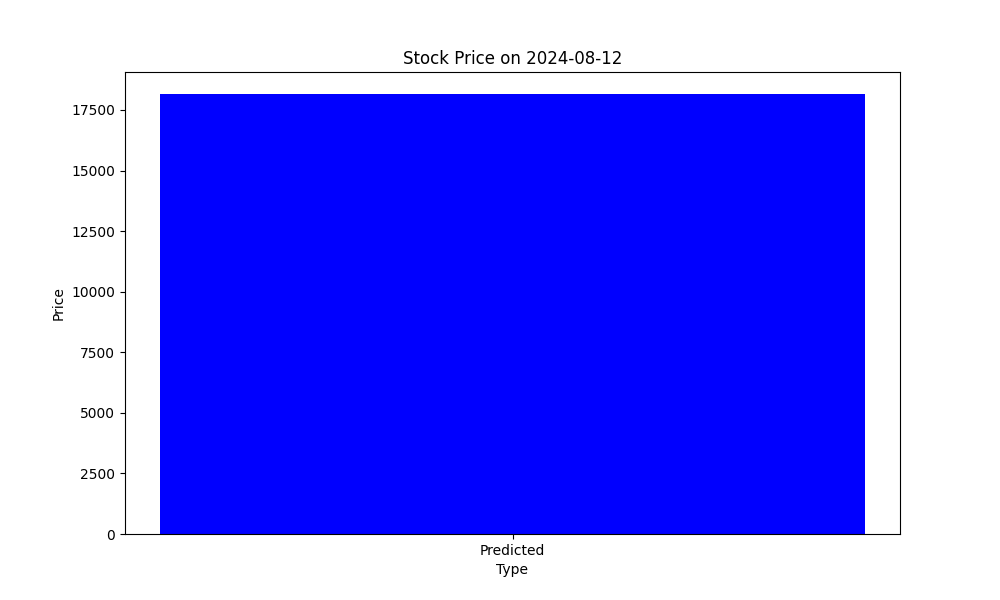
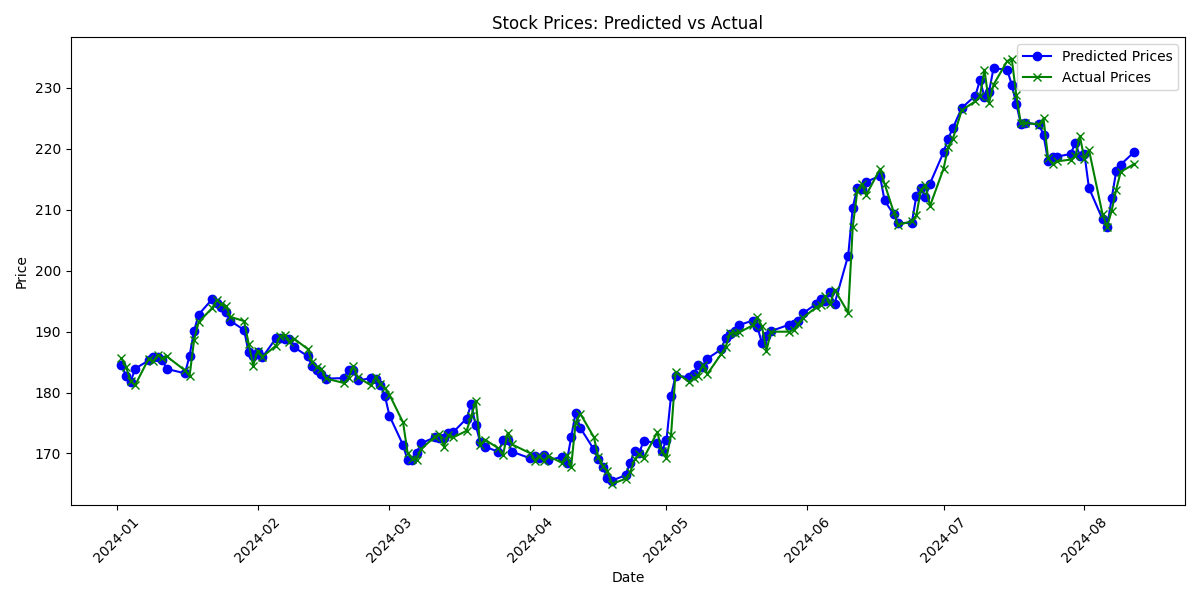
Update 1

diff --git a/templates/index.html b/templates/index.html
@@ -4,41 +4,36 @@
     <meta charset="UTF-8">
     <meta name="viewport" content="width=device-width, initial-scale=1.0">
     <title>Stock Price Prediction</title>
-    <link rel="stylesheet" href="{{ url_for('static', filename='css/styles.css') }}">
 </head>
 <body>
-    <div class="container">
-        <h1>Stock Price Prediction</h1>
-        <form method="POST">
-            <label for="symbol">Stock Symbol:</label>
-            <input type="text" id="symbol" name="symbol" required>
+    <h1>Stock Price Prediction</h1>
+    <form method="POST">
+        <label for="symbol">Stock Symbol:</label>
+        <input type="text" id="symbol" name="symbol" required>
+        <br><br>
+        <label for="future_date">Enter Future Date (YYYY-MM-DD):</label>
+        <input type="date" id="future_date" name="future_date">
+        <br><br>
+        <input type="submit" value="Predict">
+    </form>
 
-            <label for="currency">Currency (USD or INR):</label>
-            <input type="text" id="currency" name="currency" required>
+    {% if error_message %}
+        <p style="color: red;">{{ error_message }}</p>
+    {% endif %}
 
-            <label for="future_date">Future Date (YYYY-MM-DD):</label>
-            <input type="date" id="future_date" name="future_date" required>
+    {% if future_prediction %}
+        <h2>Future Prediction</h2>
+        <p>Predicted price for {{ request.form['future_date'] }}: {{ future_prediction }}</p>
+    {% endif %}
 
-            <button type="submit">Predict</button>
-        </form>
+    {% if accuracy_score %}
+        <h2>Model Accuracy</h2>
+        <p>R² Score: {{ accuracy_score }}</p>
+    {% endif %}
 
-        {% if predicted_price %}
-        <div class="result">
-            <h2>Predicted Stock Price on {{ future_date }}: {{ predicted_price }} {{ currency }}</h2>
-            {% if actual_price %}
-                <h3>Actual Stock Price: {{ actual_price }} {{ currency }}</h3>
-            {% else %}
-                <h3>No actual price data available.</h3>
-            {% endif %}
-            <img src="{{ plot_url }}" alt="Stock Price Plot">
-        </div>
-        {% endif %}
-
-        {% if error_message %}
-        <div class="error">
-            <p>{{ error_message }}</p>
-        </div>
-        {% endif %}
-    </div>
+    {% if plot_url %}
+        <h2>Predicted vs Actual Prices</h2>
+        <img src="{{ plot_url }}" alt="Predicted vs Actual Prices">
+    {% endif %}
 </body>
 </html>

diff --git a/app.py b/app.py
@@ -1,19 +1,18 @@
-from flask import Flask, render_template, request, send_file
+from flask import Flask, render_template, request
 import pandas as pd
 import numpy as np
-from datetime import datetime
-from sklearn.tree import DecisionTreeRegressor
+from datetime import datetime, timedelta
+from sklearn.ensemble import RandomForestRegressor
 from sklearn.preprocessing import StandardScaler
 import requests
 import matplotlib.pyplot as plt
 import os
+from sklearn.metrics import r2_score
 
 app = Flask(__name__)
 
 API_KEY = 'FVOEWU64HKN1C9U2'
-EXCHANGE_RATE_API_KEY = '699cc6dc962264a2fc44c056'
 STOCK_BASE_URL = 'https://www.alphavantage.co/query'
-EXCHANGE_RATE_BASE_URL = 'https://v6.exchangerate-api.com/v6'
 
 
 def calculate_rsi(df, period=14):
@@ -44,31 +43,32 @@ def add_technical_indicators(df):
     return df
 
 
-def train_decision_tree(df, currency='USD'):
+def train_random_forest(df):
     df = add_technical_indicators(df)
 
+    # Features and target variable
     X = df[['Close', 'MA_5', 'MA_10', 'MA_50', 'Volatility', 'RSI', 'MACD', 'MACD_signal']]
-    y = df['Close']
+    y = df['Close'].shift(-1)  # Predict the next day's closing price
 
-    if currency == 'INR':
-        X = df[['Close_INR', 'MA_5', 'MA_10', 'MA_50', 'Volatility', 'RSI', 'MACD', 'MACD_signal']]
-        y = df['Close_INR']
+    # Remove the last row with NaN target
+    X = X[:-1]
+    y = y[:-1]
 
     scaler = StandardScaler()
     X = scaler.fit_transform(X)
 
-    model = DecisionTreeRegressor(random_state=42)
+    model = RandomForestRegressor(n_estimators=100, random_state=42)
     model.fit(X, y)
 
     return model, scaler
 
 
-def fetch_future_price_from_api(symbol, future_date, api_key):
+def fetch_stock_data(symbol):
     params = {
         'function': 'TIME_SERIES_DAILY',
         'symbol': symbol,
         'outputsize': 'full',
-        'apikey': api_key
+        'apikey': API_KEY
     }
 
     response = requests.get(STOCK_BASE_URL, params=params)
@@ -76,28 +76,31 @@ def fetch_future_price_from_api(symbol, future_date, api_key):
 
     if 'Time Series (Daily)' in data:
         time_series = data['Time Series (Daily)']
-        future_date_str = future_date.strftime('%Y-%m-%d')
-        if future_date_str in time_series:
-            actual_price = time_series[future_date_str]['4. close']
-            return float(actual_price)
+        df = pd.DataFrame.from_dict(time_series, orient='index')
+        df.index = pd.to_datetime(df.index)
+        df = df.sort_index()
+        df.columns = ['Open', 'High', 'Low', 'Close', 'Volume']
+
+        df['Open'] = df['Open'].astype(float)
+        df['High'] = df['High'].astype(float)
+        df['Low'] = df['Low'].astype(float)
+        df['Close'] = df['Close'].astype(float)
+
+        return df
 
     return None
 
 
-def plot_prices(future_date, predicted_price, actual_price=None):
-    dates = [future_date]
-    prices = [predicted_price]
-    labels = ['Predicted']
-
-    if actual_price is not None:
-        prices.append(actual_price)
-        labels.append('Actual')
-
-    plt.figure(figsize=(10, 6))
-    plt.bar(labels, prices, color=['blue', 'green'])
-    plt.title(f'Stock Price on {future_date}')
+def plot_prices(dates, predicted_prices, actual_prices):
+    plt.figure(figsize=(12, 6))
+    plt.plot(dates, predicted_prices, label='Predicted Prices', color='blue', marker='o')
+    plt.plot(dates, actual_prices, label='Actual Prices', color='green', marker='x')
+    plt.title('Stock Prices: Predicted vs Actual')
+    plt.xlabel('Date')
     plt.ylabel('Price')
-    plt.xlabel('Type')
+    plt.xticks(rotation=45)
+    plt.legend()
+    plt.tight_layout()
 
     plot_filename = 'static/plot.png'
     if os.path.exists(plot_filename):
@@ -110,74 +113,70 @@ def plot_prices(future_date, predicted_price, actual_price=None):
 
 @app.route('/', methods=['GET', 'POST'])
 def index():
+    predicted_prices = []
+    actual_prices = []
+    error_message = None
+    future_dates = []
+    future_prediction = None
+    accuracy_score = None
+
     if request.method == 'POST':
         symbol = request.form['symbol'].upper()
-        currency = request.form['currency'].upper()
-        future_date_str = request.form['future_date']
-        future_date = datetime.strptime(future_date_str, '%Y-%m-%d')
+        future_date_str = request.form.get('future_date', '')
 
-        # Step 1: Fetch the exchange rate (USD to INR)
-        exchange_rate_response = requests.get(f"{EXCHANGE_RATE_BASE_URL}/{EXCHANGE_RATE_API_KEY}/latest/USD")
-        exchange_rate_data = exchange_rate_response.json()
-        usd_to_inr = exchange_rate_data['conversion_rates']['INR']
+        # Fetch the stock data from Alpha Vantage
+        df = fetch_stock_data(symbol)
 
-        # Step 2: Fetch the stock data from Alpha Vantage
-        params = {
-            'function': 'TIME_SERIES_DAILY',
-            'symbol': symbol,
-            'outputsize': 'full',
-            'apikey': API_KEY
-        }
+        if df is not None:
+            # Train the model
+            model, scaler = train_random_forest(df)
 
-        response = requests.get(STOCK_BASE_URL, params=params)
-        data = response.json()
+            if future_date_str:
+                future_date = pd.to_datetime(future_date_str)
+                last_date = df.index[-1]
 
-        if 'Time Series (Daily)' in data:
-            time_series = data['Time Series (Daily)']
-            df = pd.DataFrame.from_dict(time_series, orient='index')
-            df.index = pd.to_datetime(df.index)
-            df = df.sort_index()
-            df.columns = ['Open', 'High', 'Low', 'Close', 'Volume']
+                if future_date > last_date:
+                    # Prepare data for future date prediction
+                    last_row = df.iloc[-1][['Close', 'MA_5', 'MA_10', 'MA_50', 'Volatility', 'RSI', 'MACD', 'MACD_signal']]
+                    last_row_df = pd.DataFrame([last_row])
+                    last_row_scaled = scaler.transform(last_row_df)
 
-            df['Open'] = df['Open'].astype(float)
-            df['High'] = df['High'].astype(float)
-            df['Low'] = df['Low'].astype(float)
-            df['Close'] = df['Close'].astype(float)
+                    # Predict the price for the future date
+                    future_prediction = model.predict(last_row_scaled)[0]
 
-            df['Open_INR'] = df['Open'] * usd_to_inr
-            df['High_INR'] = df['High'] * usd_to_inr
-            df['Low_INR'] = df['Low'] * usd_to_inr
-            df['Close_INR'] = df['Close'] * usd_to_inr
+            # Generate dates from January 1st to today
+            start_date = datetime(2024, 1, 1)
+            end_date = datetime.now()
+            date_range = pd.date_range(start=start_date, end=end_date)
 
-            # Step 3: Train the model
-            model, scaler = train_decision_tree(df, currency=currency)
+            # Prepare data for predictions
+            for date in date_range:
+                if date in df.index:
+                    last_row = df.loc[date][['Close', 'MA_5', 'MA_10', 'MA_50', 'Volatility', 'RSI', 'MACD', 'MACD_signal']]
+                    last_row_df = pd.DataFrame([last_row])
+                    last_row_scaled = scaler.transform(last_row_df)
 
-            # Step 4: Predict the stock price for the future date
-            last_row = df.iloc[-1][
-                ['Close', 'MA_5', 'MA_10', 'MA_50', 'Volatility', 'RSI', 'MACD',
-                 'MACD_signal']] if currency == 'USD' else \
-                df.iloc[-1][['Close_INR', 'MA_5', 'MA_10', 'MA_50', 'Volatility', 'RSI', 'MACD', 'MACD_signal']]
+                    # Predict the next day's price
+                    predicted_price = model.predict(last_row_scaled)[0]
+                    predicted_prices.append(predicted_price)
+                    actual_prices.append(df.loc[date]['Close'])
+                    future_dates.append(date)
 
-            last_row_df = pd.DataFrame([last_row])
-            last_row_scaled = scaler.transform(last_row_df)
-            predicted_price = model.predict(last_row_scaled)[0]
+            # Calculate accuracy score
+            accuracy_score = r2_score(actual_prices, predicted_prices)*100
 
-            # Step 5: Fetch the actual price from the API for the future date
-            actual_price = fetch_future_price_from_api(symbol, future_date, API_KEY)
+            # Plot the prices
+            plot_filename = plot_prices(future_dates, predicted_prices, actual_prices)
 
-            # Step 6: Plot the prices
-            plot_filename = plot_prices(future_date_str, predicted_price, actual_price)
-
-            return render_template('index.html', predicted_price=predicted_price, future_date=future_date_str,
-                                   currency=currency, actual_price=actual_price, plot_url=plot_filename)
+            return render_template('index.html', predicted_prices=predicted_prices, actual_prices=actual_prices,
+                                   future_dates=future_dates, plot_url=plot_filename, future_prediction=future_prediction,
+                                   accuracy_score=accuracy_score)
 
         else:
-            error_message = data.get('Error Message') or data.get('Note') or data.get(
-                'Information') or "An unknown error occurred."
-            return render_template('index.html', error_message=error_message)
+            error_message = "Failed to fetch stock data. Please check the stock symbol."
 
-    return render_template('index.html')
-
-
+    return render_template('index.html', predicted_prices=predicted_prices, actual_prices=actual_prices,
+                           future_dates=future_dates, error_message=error_message, future_prediction=future_prediction,
+                           accuracy_score=accuracy_score)
 if __name__ == '__main__':
     app.run(debug=True)
